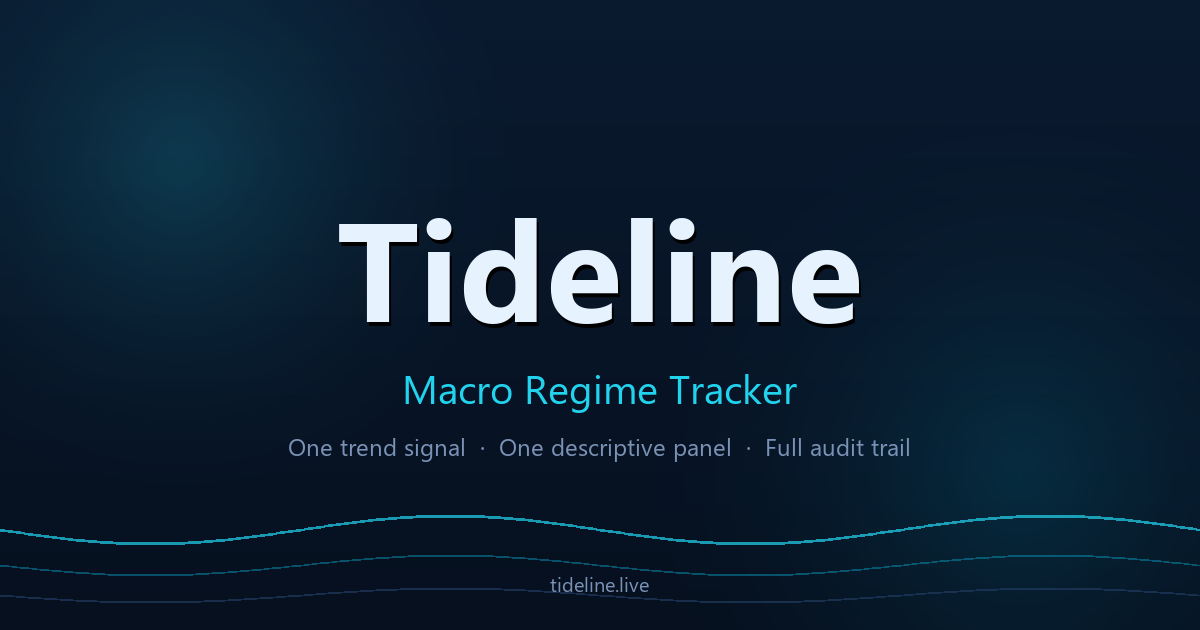
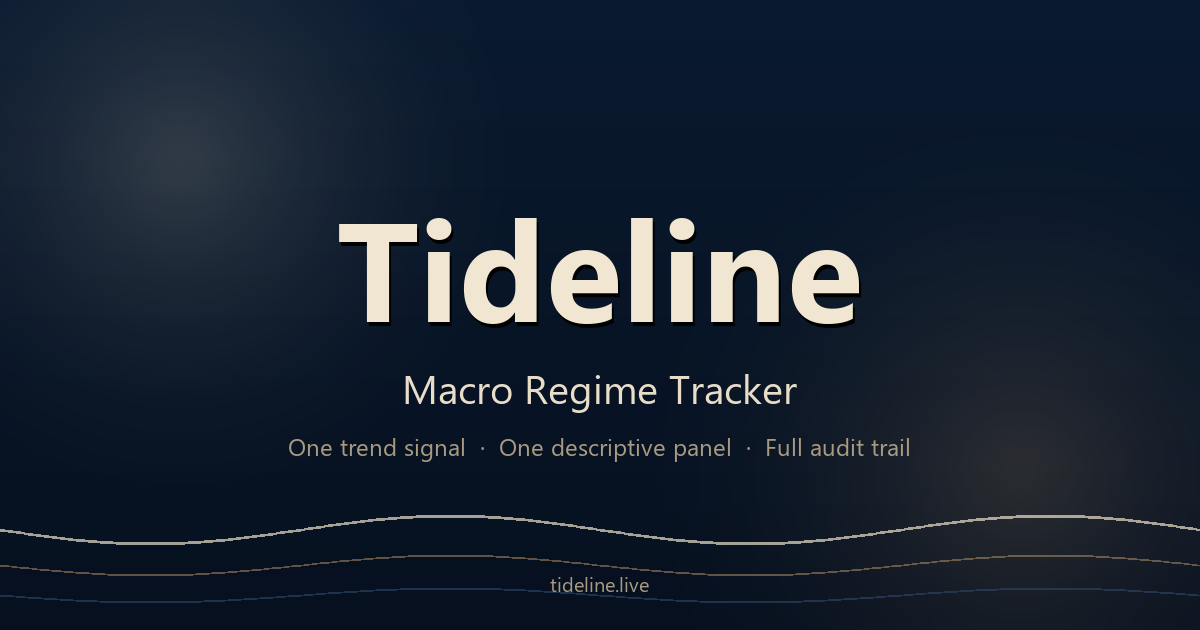
theme: sandbox warmth on ocean — cream/sand accents, wood tones, less neon

diff --git a/web/index.html b/web/index.html
@@ -26,18 +26,22 @@
     <link href="https://fonts.googleapis.com/css2?family=Inter:wght@300;400;500;600;700&family=JetBrains+Mono:wght@400;500&display=swap" rel="stylesheet">
     <style>
         :root {
+            /* Ocean base — deep, calm, professional */
             --ocean-deep: #0A1A2F;
-            --ocean-surface: #132544;
-            --ocean-card: #132A4A;
-            --ocean-border: #1F3A5F;
-            --foam: #E6F3FF;
-            --muted: #7A92B5;
-            --teal: #0891B2;
-            --cyan-bright: #22D3EE;
-            --reef: #10B981;
-            --coral: #F97316;
-            --deep-purple: #7C3AED;
-            --amber: #F59E0B;
+            --ocean-surface: #122438;
+            --ocean-card: #14283F;
+            --ocean-border: #2A4060;
+            /* Sandbox warmth — replaces neon cyan with refined cream/sand */
+            --foam: #F0E6D2;          /* warm cream — primary text + hero number */
+            --muted: #A89B82;         /* muted sand — secondary text/labels */
+            --teal: #B8956A;          /* wood — secondary accent (was teal) */
+            --cyan-bright: #E8DDC8;   /* light sand — primary accent / hero glow */
+            --sand: #D4B98C;          /* mid sand — buttons, highlights */
+            /* Semantic colors — warmer, less neon */
+            --reef: #7BA37A;          /* soft sage green — risk-on / good */
+            --coral: #C46B5C;         /* warm rust — risk-off / bad */
+            --amber: #D4A85A;         /* tan-amber — elevated / caution */
+            --deep-purple: #8E7AB0;   /* muted lavender — neutral */
         }
         * { font-family: 'Inter', sans-serif; }
         .mono { font-family: 'JetBrains Mono', monospace; }
@@ -52,8 +56,8 @@
             position: fixed;
             inset: 0;
             background-image:
-                radial-gradient(at 15% 25%, rgba(34, 211, 238, 0.08) 0%, transparent 40%),
-                radial-gradient(at 85% 75%, rgba(8, 145, 178, 0.1) 0%, transparent 40%);
+                radial-gradient(at 15% 25%, rgba(232, 221, 200, 0.04) 0%, transparent 40%),
+                radial-gradient(at 85% 75%, rgba(184, 149, 106, 0.06) 0%, transparent 40%);
             pointer-events: none;
             z-index: 0;
         }
@@ -89,15 +93,15 @@
             letter-spacing: 0.5px;
             text-transform: uppercase;
         }
-        .regime-easy     { background: rgba(34, 211, 238, 0.12); color: var(--cyan-bright); border: 1px solid rgba(34, 211, 238, 0.3); }
-        .regime-normal   { background: rgba(16, 185, 129, 0.12); color: var(--reef); border: 1px solid rgba(16, 185, 129, 0.3); }
-        .regime-elevated { background: rgba(245, 158, 11, 0.12); color: var(--amber); border: 1px solid rgba(245, 158, 11, 0.3); }
-        .regime-stress   { background: rgba(249, 115, 22, 0.12); color: var(--coral); border: 1px solid rgba(249, 115, 22, 0.3); }
-        .regime-green    { background: rgba(16, 185, 129, 0.12); color: var(--reef); border: 1px solid rgba(16, 185, 129, 0.3); }
-        .regime-caution  { background: rgba(249, 115, 22, 0.12); color: var(--coral); border: 1px solid rgba(249, 115, 22, 0.3); }
-        .regime-neutral  { background: rgba(124, 58, 237, 0.12); color: #A78BFA; border: 1px solid rgba(124, 58, 237, 0.3); }
+        .regime-easy     { background: rgba(232, 221, 200, 0.10); color: var(--cyan-bright); border: 1px solid rgba(232, 221, 200, 0.30); }
+        .regime-normal   { background: rgba(123, 163, 122, 0.10); color: var(--reef);        border: 1px solid rgba(123, 163, 122, 0.30); }
+        .regime-elevated { background: rgba(212, 168,  90, 0.10); color: var(--amber);       border: 1px solid rgba(212, 168,  90, 0.30); }
+        .regime-stress   { background: rgba(196, 107,  92, 0.12); color: var(--coral);       border: 1px solid rgba(196, 107,  92, 0.35); }
+        .regime-green    { background: rgba(123, 163, 122, 0.10); color: var(--reef);        border: 1px solid rgba(123, 163, 122, 0.30); }
+        .regime-caution  { background: rgba(196, 107,  92, 0.12); color: var(--coral);       border: 1px solid rgba(196, 107,  92, 0.35); }
+        .regime-neutral  { background: rgba(142, 122, 176, 0.10); color: var(--deep-purple); border: 1px solid rgba(142, 122, 176, 0.30); }
         .pct-bar { height: 4px; background: var(--ocean-border); border-radius: 2px; overflow: hidden; }
-        .pct-fill { height: 100%; background: linear-gradient(90deg, var(--teal) 0%, var(--cyan-bright) 100%); transition: width 1s ease; }
+        .pct-fill { height: 100%; background: linear-gradient(90deg, var(--teal) 0%, var(--sand) 100%); transition: width 1s ease; }
         .nav-link { position: relative; color: var(--muted); transition: color 0.2s ease; font-size: 13px; font-weight: 500; }
         .nav-link:hover { color: var(--foam); }
         .nav-link.active { color: var(--cyan-bright); }
@@ -122,7 +126,7 @@
             position: relative;
             border-radius: 24px;
             overflow: hidden;
-            background: linear-gradient(180deg, rgba(34, 211, 238, 0.04) 0%, rgba(8, 145, 178, 0.10) 100%);
+            background: linear-gradient(180deg, rgba(232, 221, 200, 0.03) 0%, rgba(184, 149, 106, 0.08) 100%);
             border: 1px solid var(--ocean-border);
             padding: 48px 32px 56px;
         }
@@ -132,11 +136,11 @@
             letter-spacing: -0.05em;
             line-height: 0.9;
             text-align: center;
-            background: linear-gradient(180deg, #E6F3FF 0%, #22D3EE 100%);
+            background: linear-gradient(180deg, #F5EDD8 0%, #D4B98C 100%);
             -webkit-background-clip: text;
             background-clip: text;
             color: transparent;
-            text-shadow: 0 0 80px rgba(34, 211, 238, 0.25);
+            text-shadow: 0 0 80px rgba(232, 221, 200, 0.20);
             transition: all 1s ease;
         }
         .tide-narrative {
@@ -202,8 +206,8 @@
                         <path d="M2 22 Q8 16 14 22 T26 22 L30 22" stroke="url(#logoGrad)" stroke-width="2" fill="none" stroke-linecap="round" opacity="0.5"/>
                         <defs>
                             <linearGradient id="logoGrad" x1="0" y1="0" x2="32" y2="32">
-                                <stop offset="0%" style="stop-color:#22D3EE"/>
-                                <stop offset="100%" style="stop-color:#0891B2"/>
+                                <stop offset="0%" style="stop-color:#E8DDC8"/>
+                                <stop offset="100%" style="stop-color:#B8956A"/>
                             </linearGradient>
                         </defs>
                     </svg>
@@ -216,7 +220,7 @@
             </div>
             <div class="flex items-center gap-4">
                 <span id="last-updated" class="text-xs flex items-center gap-2" style="color: var(--muted);">
-                    <span class="w-2 h-2 rounded-full pulse-dot" style="background: var(--cyan-bright);"></span>
+                    <span class="w-2 h-2 rounded-full pulse-dot" style="background: var(--sand);"></span>
                     Loading…
                 </span>
             </div>
@@ -248,11 +252,11 @@
                 <path d="M0,60 Q100,30 200,45 T400,35 T600,40 T800,30 L800,100 L0,100 Z"
                       fill="url(#tideHeroGrad)"/>
                 <path d="M0,60 Q100,30 200,45 T400,35 T600,40 T800,30"
-                      stroke="#22D3EE" stroke-width="2" fill="none" opacity="0.5"/>
+                      stroke="#D4B98C" stroke-width="2" fill="none" opacity="0.45"/>
                 <defs>
                     <linearGradient id="tideHeroGrad" x1="0%" y1="0%" x2="0%" y2="100%">
-                        <stop offset="0%"  stop-color="#22D3EE" stop-opacity="0.10"/>
-                        <stop offset="100%" stop-color="#0891B2" stop-opacity="0.50"/>
+                        <stop offset="0%"  stop-color="#E8DDC8" stop-opacity="0.06"/>
+                        <stop offset="100%" stop-color="#B8956A" stop-opacity="0.35"/>
                     </linearGradient>
                 </defs>
             </svg>

diff --git a/web/methodology.html b/web/methodology.html
@@ -24,9 +24,10 @@
     <link href="https://fonts.googleapis.com/css2?family=Inter:wght@300;400;500;600;700&family=JetBrains+Mono:wght@400;500&display=swap" rel="stylesheet">
     <style>
         :root {
-            --ocean-deep: #0A1A2F; --ocean-card: #132A4A; --ocean-border: #1F3A5F;
-            --foam: #E6F3FF; --muted: #7A92B5; --teal: #0891B2; --cyan-bright: #22D3EE;
-            --reef: #10B981; --coral: #F97316; --amber: #F59E0B;
+            --ocean-deep: #0A1A2F; --ocean-card: #14283F; --ocean-border: #2A4060;
+            --foam: #F0E6D2; --muted: #A89B82; --teal: #B8956A; --cyan-bright: #E8DDC8;
+            --sand: #D4B98C;
+            --reef: #7BA37A; --coral: #C46B5C; --amber: #D4A85A;
         }
         * { font-family: 'Inter', sans-serif; }
         .mono { font-family: 'JetBrains Mono', monospace; }
@@ -35,7 +36,7 @@
             color: var(--foam); min-height: 100vh; background-attachment: fixed;
         }
         body::before { content: ''; position: fixed; inset: 0;
-            background-image: radial-gradient(at 15% 25%, rgba(34, 211, 238, 0.08) 0%, transparent 40%), radial-gradient(at 85% 75%, rgba(8, 145, 178, 0.1) 0%, transparent 40%);
+            background-image: radial-gradient(at 15% 25%, rgba(232, 221, 200, 0.04) 0%, transparent 40%), radial-gradient(at 85% 75%, rgba(184, 149, 106, 0.06) 0%, transparent 40%);
             pointer-events: none; z-index: 0; }
         .nav-link { position: relative; color: var(--muted); transition: color 0.2s ease; font-size: 13px; font-weight: 500; }
         .nav-link:hover { color: var(--foam); }
@@ -59,8 +60,8 @@
                         <path d="M2 22 Q8 16 14 22 T26 22 L30 22" stroke="url(#logoGrad)" stroke-width="2" fill="none" stroke-linecap="round" opacity="0.5"/>
                         <defs>
                             <linearGradient id="logoGrad" x1="0" y1="0" x2="32" y2="32">
-                                <stop offset="0%" style="stop-color:#22D3EE"/>
-                                <stop offset="100%" style="stop-color:#0891B2"/>
+                                <stop offset="0%" style="stop-color:#E8DDC8"/>
+                                <stop offset="100%" style="stop-color:#B8956A"/>
                             </linearGradient>
                         </defs>
                     </svg>

diff --git a/web/generate_og.py b/web/generate_og.py
@@ -14,16 +14,17 @@ from pathlib import Path
 
 from PIL import Image, ImageDraw, ImageFilter, ImageFont
 
-# Brand palette (from index.html CSS variables)
+# Brand palette — sandbox warmth on ocean depth
 OCEAN_DEEP    = (10,  26,  47)   # #0A1A2F
 OCEAN_DARK    = (6,   16,  31)   # #06101F
-OCEAN_CARD    = (19,  42,  74)   # #132A4A
-OCEAN_BORDER  = (31,  58,  95)   # #1F3A5F
-FOAM          = (230, 243, 255)  # #E6F3FF
-MUTED         = (122, 146, 181)  # #7A92B5
-CYAN_BRIGHT   = (34,  211, 238)  # #22D3EE
-TEAL          = (8,   145, 178)  # #0891B2
-REEF          = (16,  185, 129)
+OCEAN_CARD    = (20,  40,  63)   # #14283F
+OCEAN_BORDER  = (42,  64,  96)   # #2A4060
+FOAM          = (240, 230, 210)  # #F0E6D2  warm cream
+MUTED         = (168, 155, 130)  # #A89B82  muted sand
+CYAN_BRIGHT   = (232, 221, 200)  # #E8DDC8  light sand (was cyan)
+TEAL          = (184, 149, 106)  # #B8956A  wood
+SAND          = (212, 185, 140)  # #D4B98C  mid-sand accent
+REEF          = (123, 163, 122)  # #7BA37A  soft sage
 
 W, H = 1200, 630
 
